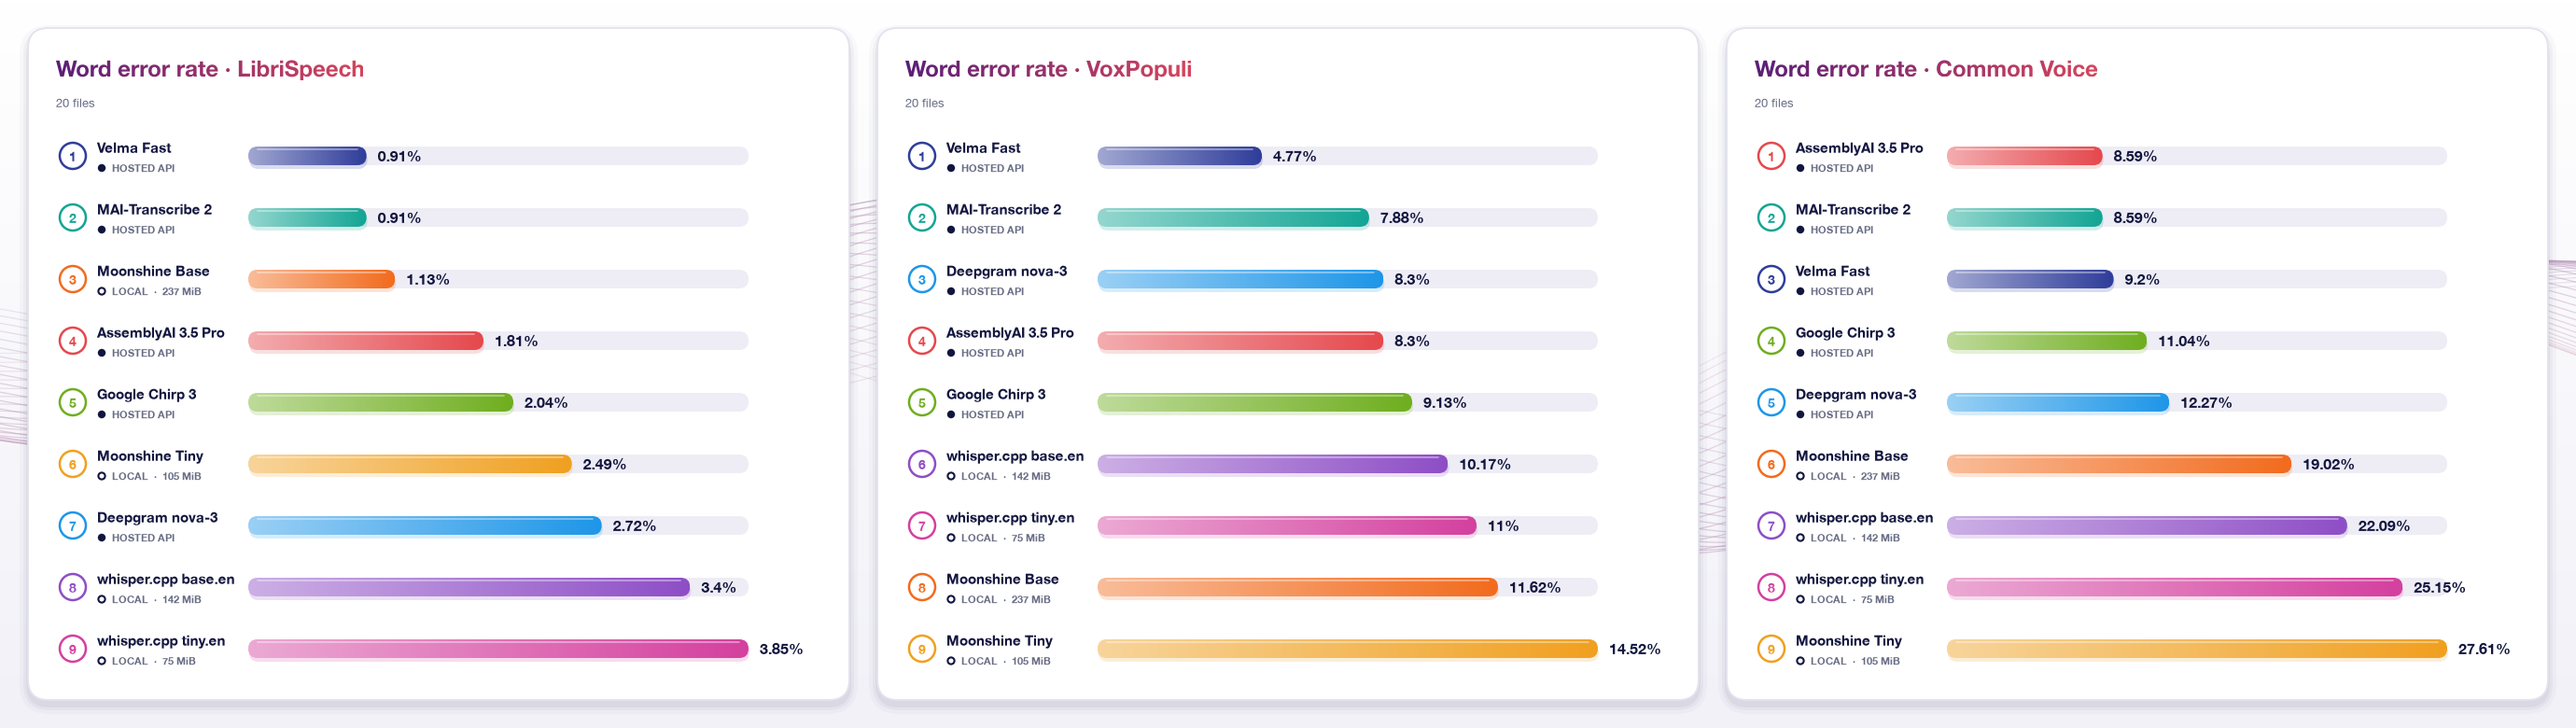
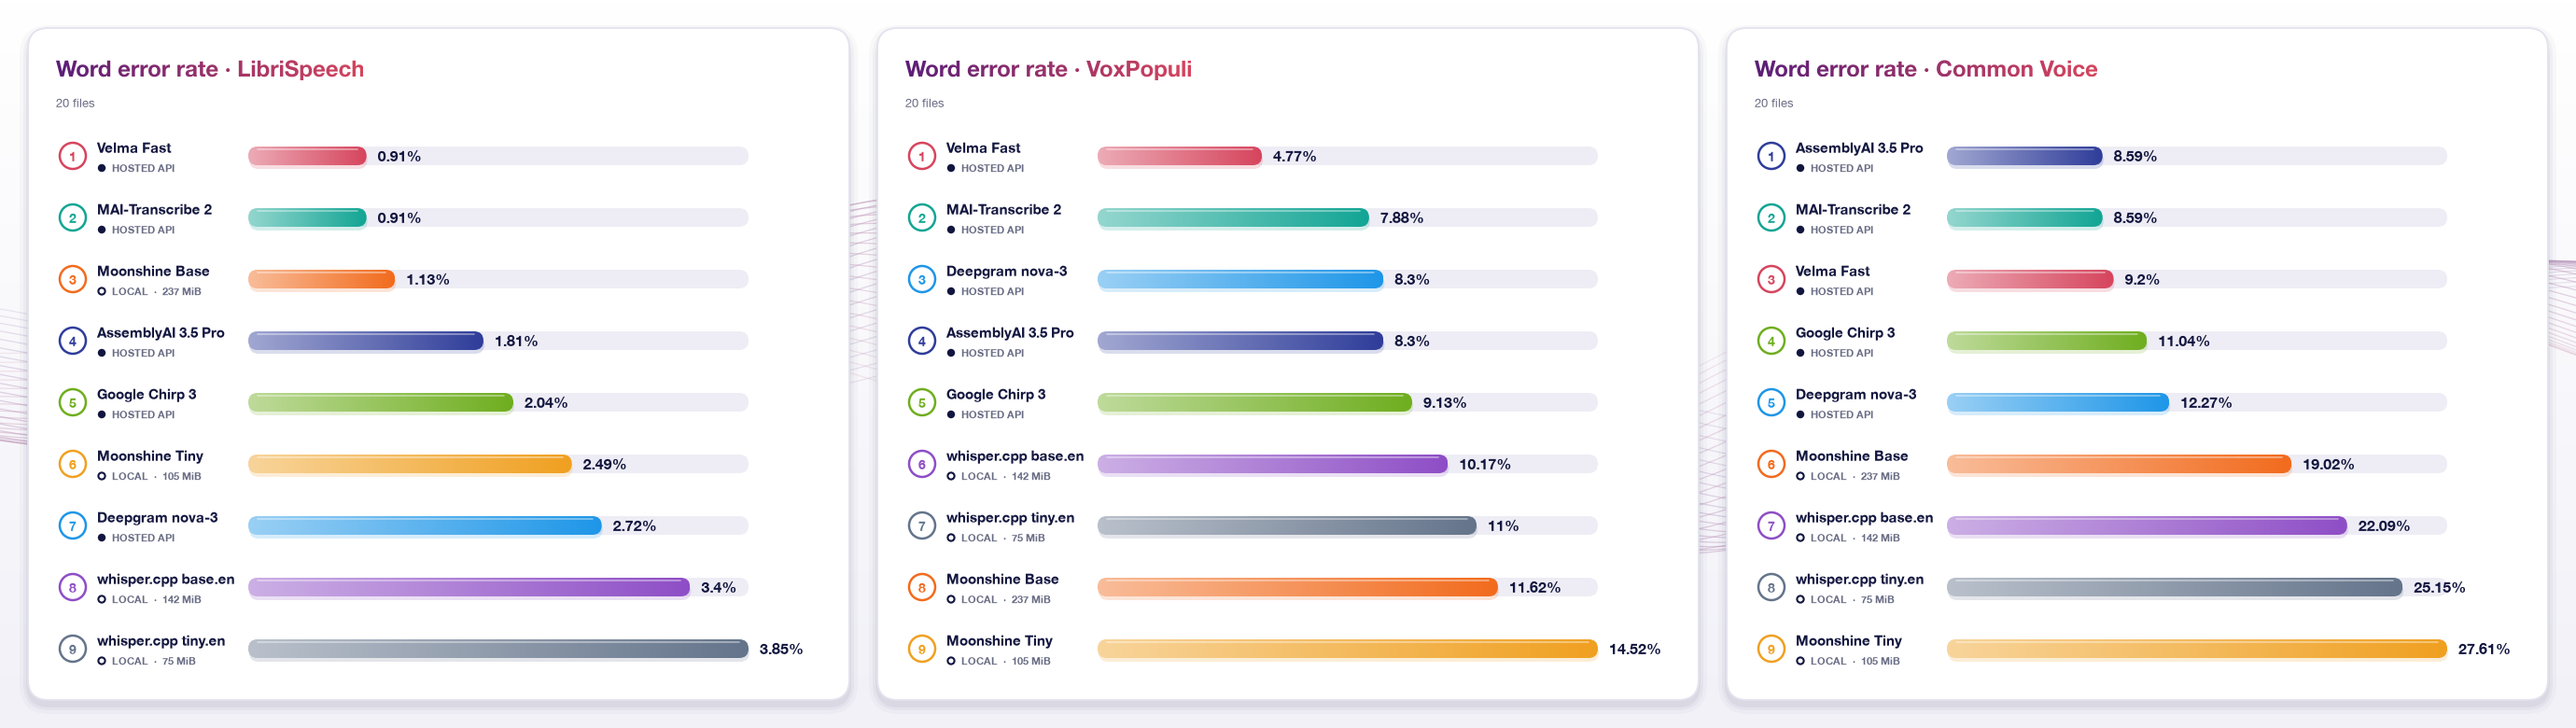
Charts: Velma in the theme's main coral red; AssemblyAI and whisper.cpp tiny recolored to stay distinct

diff --git a/plots.py b/plots.py
@@ -2,7 +2,7 @@
 
 Every chart is drawn on one pixel-coordinate canvas (1 data unit = 1 px at 100 dpi) so the same
 panel functions build every chart.
-Colors are assigned per engine and every engine gets the same treatment; no engine is highlighted.
+Each engine has its own color; Velma uses the theme's main coral red.
 """
 import numpy as np
 import matplotlib
@@ -26,9 +26,9 @@ PURPLE, CORAL = "#5B1E78", "#D6455D"
 WAVE = "#CFCBE3"
 
 PALETTE = {
-    "velma": "#2F3D9A", "deepgram": "#1E96E8", "assemblyai": "#E5484D", "chirp_3": "#6FAE1F",
+    "velma": CORAL, "deepgram": "#1E96E8", "assemblyai": "#2F3D9A", "chirp_3": "#6FAE1F",
     "mai_transcribe_2": "#12A594", "moonshine_tiny": "#F0A020", "moonshine_base": "#F26B1D",
-    "whisper_cpp_tiny": "#D4409F", "whisper_cpp_base": "#8E4EC6", "whisper_hf": "#2E9E5B",
+    "whisper_cpp_tiny": "#64748B", "whisper_cpp_base": "#8E4EC6", "whisper_hf": "#2E9E5B",
 }
 NAMES = {
     "velma": "Velma Fast", "deepgram": "Deepgram nova-3", "assemblyai": "AssemblyAI 3.5 Pro",
